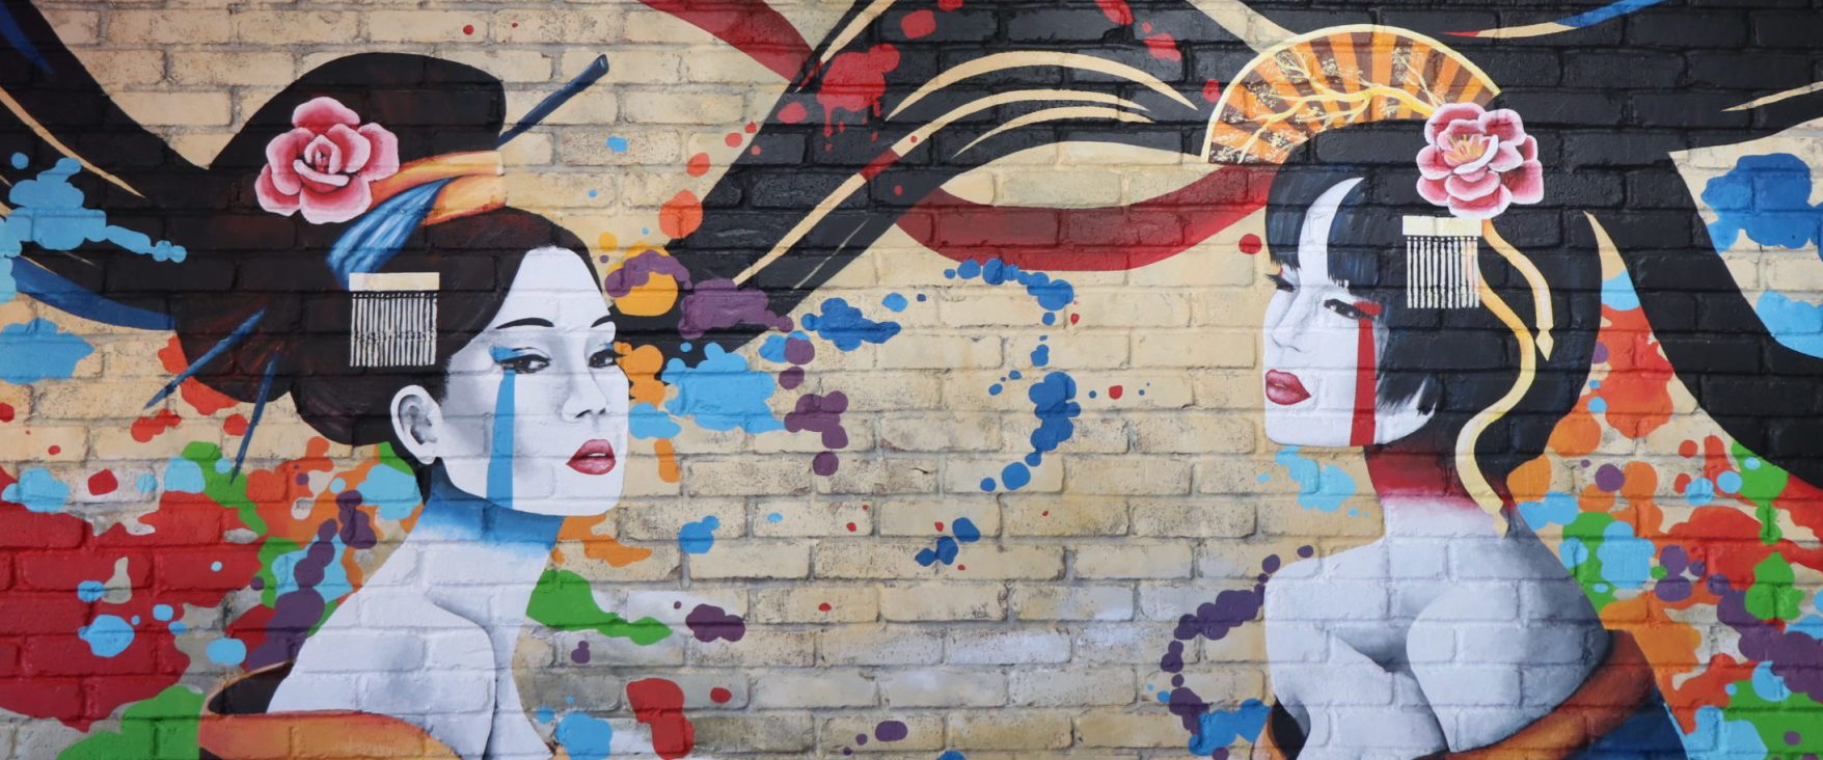
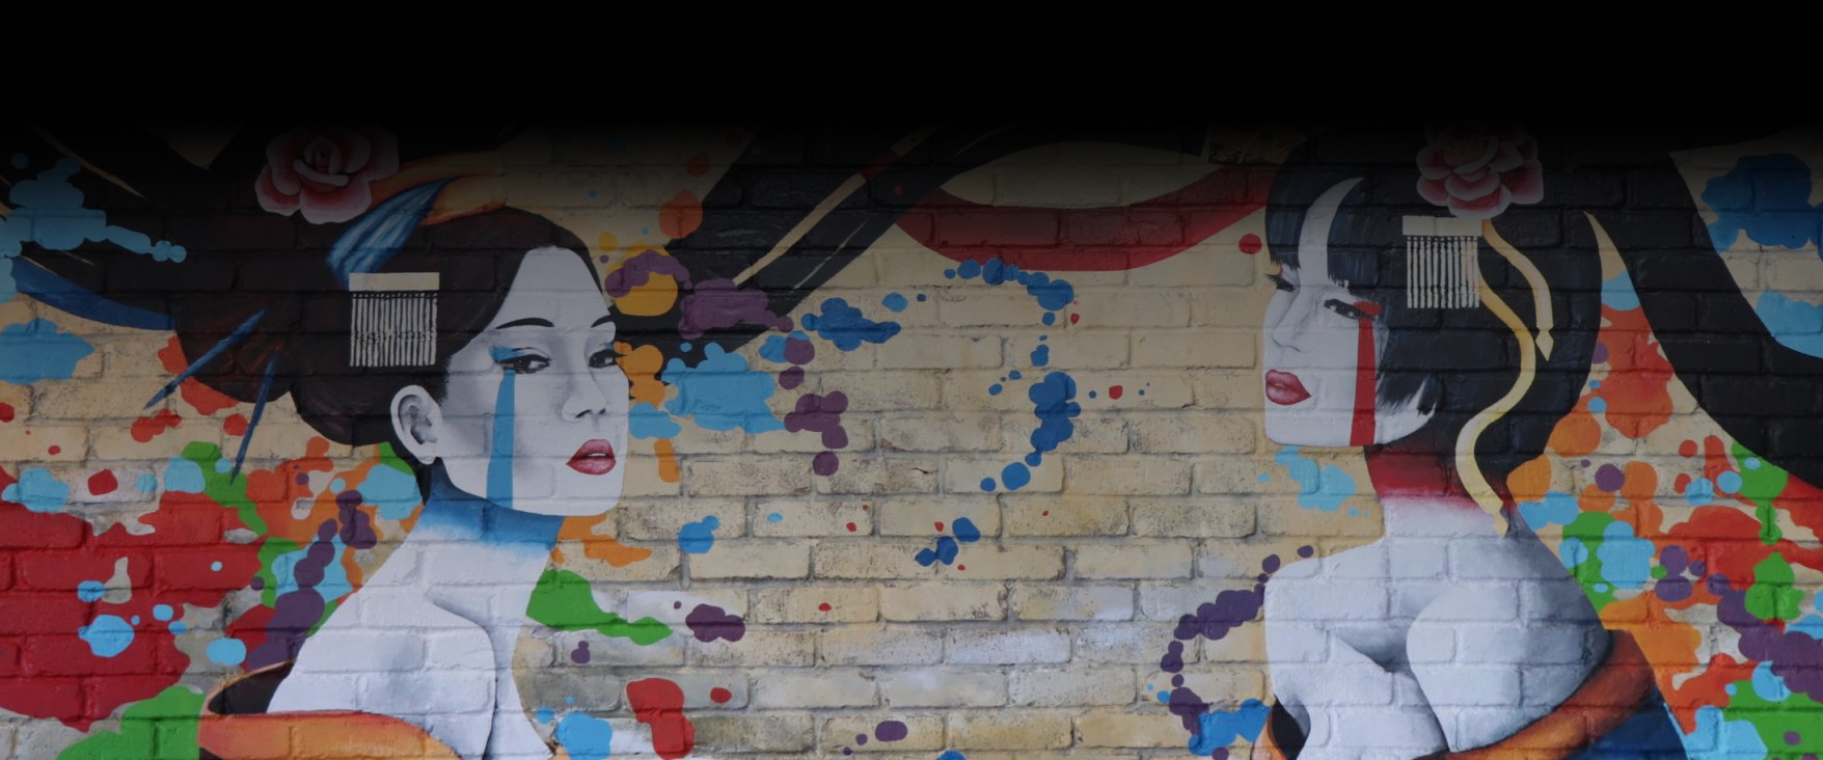
about finished with the landing page and added a footer

diff --git a/components/About.js b/components/About.js
@@ -3,17 +3,54 @@ import Image from 'next/image'
 import banner from "../public/banner.png";
 function About() {
   return (
-    <div className='flex flex-col items-center '>
-        <div className='flex bg-red-400 w-full justify-center h-auto'>
+    <div className='flex flex-col items-center w-full'>
+        <div className='flex w-full justify-center '>
             <Image
             src={banner}
             alt="banner image of two geisha"
-            className=' object-fill relative'
+            className=' object-cover w-full'
             />
         </div>
         <div className='font-lithos px-5 flex text-left mt-12 text-4xl w-full md:w-8/12 md:text-5xl'>
             Bakudan Ramen is a traditional Japanese cuisine restaurant from its homeland with a modern twist in every ramen bowl. <br/><br/>Bakudan brings that flavor to a higher level with our chef exclusive ingredients
         </div>
+
+        {/* hours block */}
+        <div className='flex flex-col items-center w-10/12 md:w-5/12 max-w-screen-md bg-gray-500/30 mt-10 p-3 rounded-md'>
+            <div className=' mb-2  font-roboto font-bold text-3xl'>
+                Hours
+            </div>
+            <div className=' pb-2 font-roboto font-light text-2xl flex justify-between  w-full'>
+                <p>Monday</p>
+                <p>11AM - 10PM</p>
+            </div>
+            <div className=' pb-2 font-roboto font-light text-2xl flex justify-between  w-full '>
+                <p>Tuesday</p>
+                <p>11AM - 10PM</p>
+            </div>
+            <div className=' pb-2 font-roboto font-light text-2xl flex justify-between  w-full '>
+                <p>Wednesday</p>
+                <p>11AM - 10PM</p>
+            </div>
+            <div className=' pb-2 font-roboto font-light text-2xl flex justify-between  w-full '>
+                <p>Thursday</p>
+                <p>11AM - 10PM</p>
+            </div>
+            <div className=' pb-2 font-roboto font-light text-2xl flex justify-between  w-full '>
+                <p>Friday</p>
+                <p>11AM - 11PM</p>
+            </div>
+            <div className=' pb-2 font-roboto font-light text-2xl flex justify-between  w-full '>
+                <p>Saturday</p>
+                <p>11AM - 11PM</p>
+            </div>
+            <div className=' font-roboto font-light text-2xl flex justify-between  w-full '>
+                <p>Sunday</p>
+                <p>11AM - 9PM</p>
+            </div>
+        </div>
+
+        
     </div>
   )
 }

diff --git a/pages/_app.js b/pages/_app.js
@@ -1,18 +1,27 @@
 import '@/styles/globals.css'
 import Navbar from '@/components/Navbar'
+import Footer from '@/components/Footer'
 import localFont from 'next/font/local'
+import { Roboto_Flex } from 'next/font/google'
 
 const lithos = localFont({
 	src: "..//public/fonts/Lithos-Bold.ttf",
 	variable: "--font-lithos-bold",
 });
+const robotoFlex = Roboto_Flex({
+  subsets: ['latin'],
+  variable: '--font-roboto-flex',
+});
 
 export default function App({ Component, pageProps }) {
   return (
-    <main className={`${lithos.variable}`}>
+    <main className={`${lithos.variable},${robotoFlex.variable}`}>
       <div className='pt-5'>
         <Navbar />
-        <Component {...pageProps} />
+      </div>
+      <Component {...pageProps} />
+      <div className='pt-5'>
+        <Footer/>
       </div>
     </main>
   )

diff --git a/tailwind.config.js b/tailwind.config.js
@@ -9,6 +9,7 @@ module.exports = {
     extend: {
       fontFamily: {
 				lithos: ["var(--font-lithos-bold)"],
+        roboto: ["var(--font-roboto-flex)"],
 			},
       backgroundImage: {
         'gradient-radial': 'radial-gradient(var(--tw-gradient-stops))',

diff --git a/components/Footer.js b/components/Footer.js
@@ -1,0 +1,9 @@
+import React from 'react'
+
+function Footer() {
+  return (
+    <div className=' bg-orange-500'>Footer</div>
+  )
+}
+
+export default Footer
